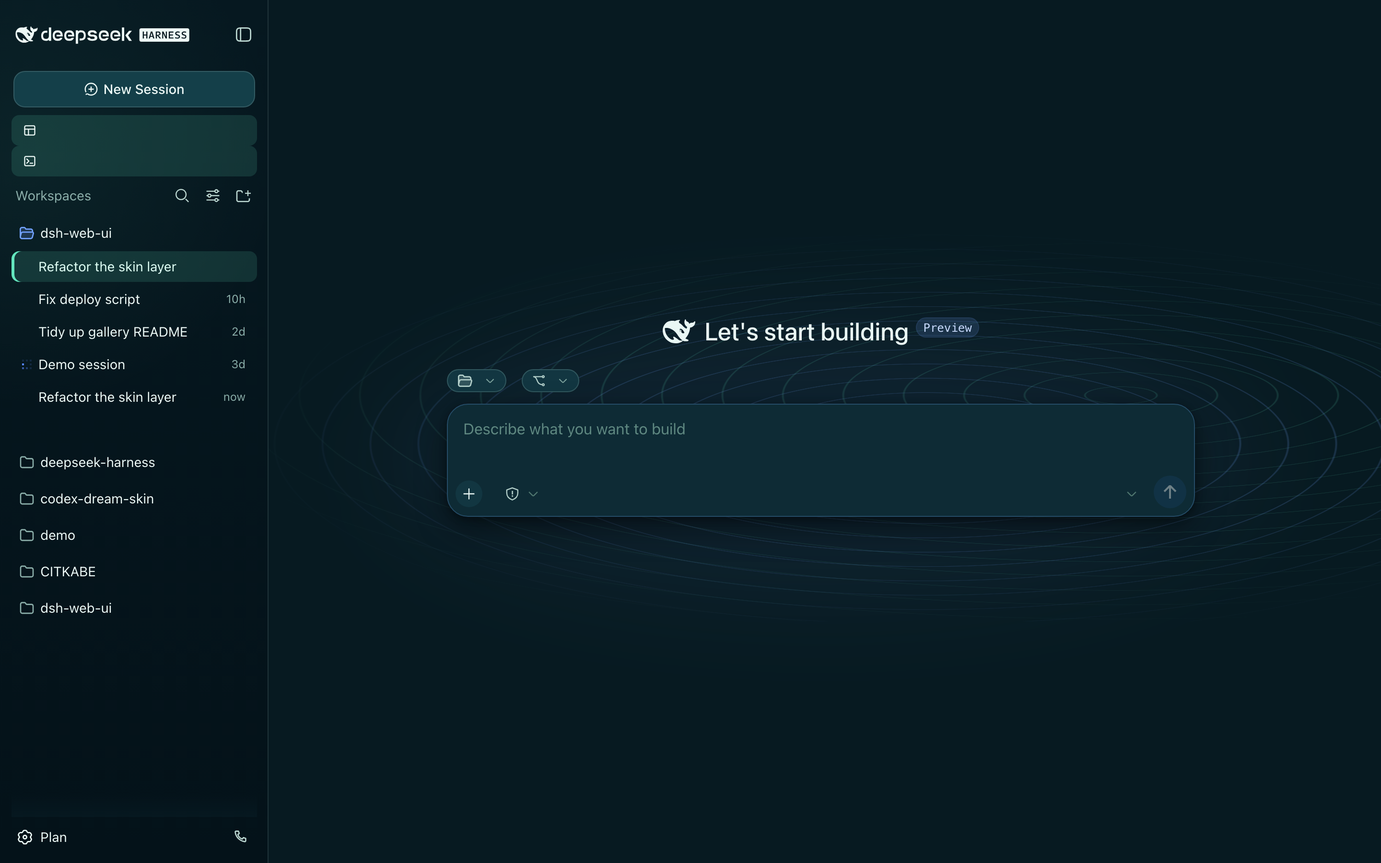
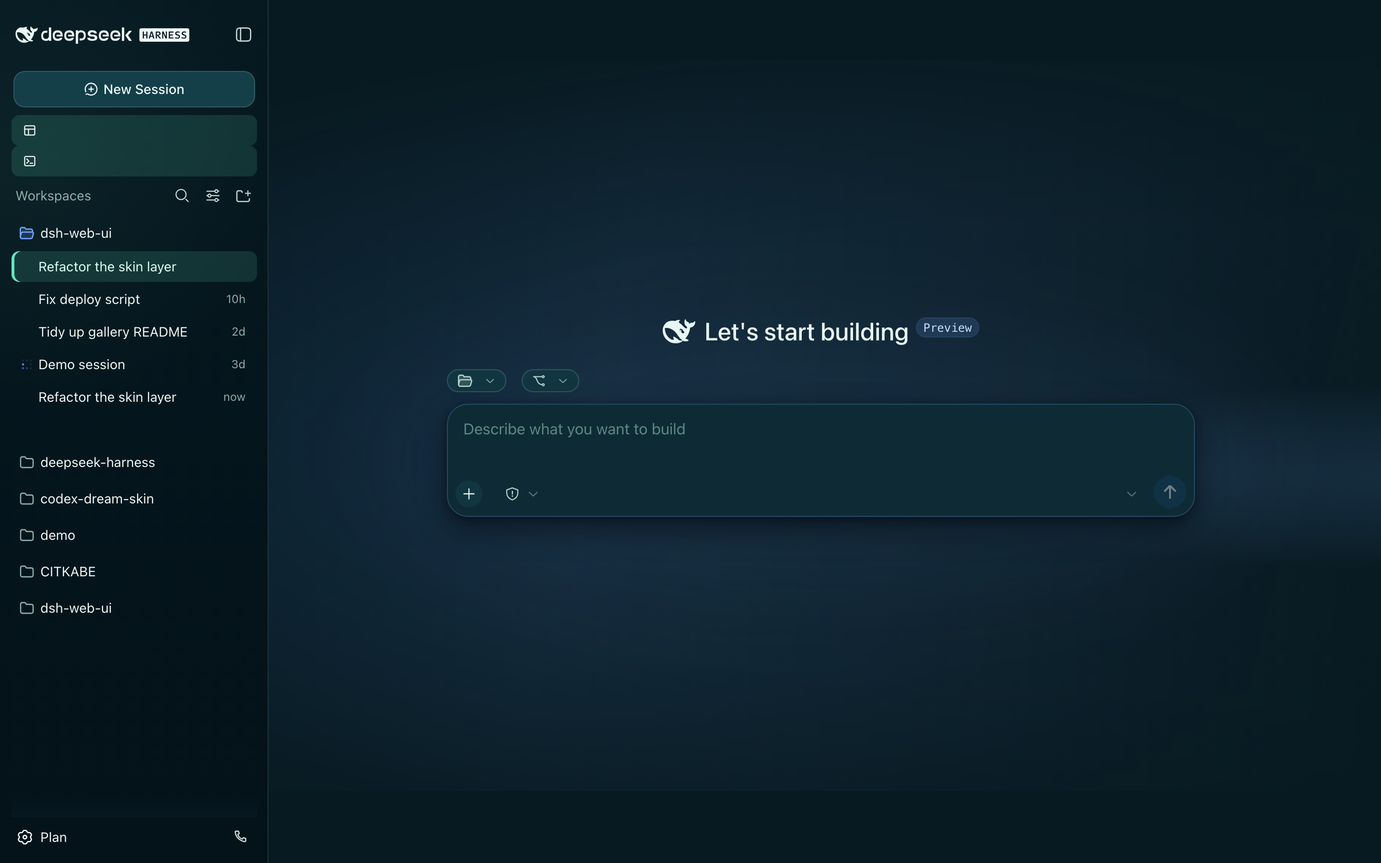
fix(skins): refine Deep Current visuals

Changed region(s): [[0.875, 0.4978, 1.0, 0.5911]]

diff --git a/gallery/styles.js b/gallery/styles.js
@@ -65,6 +65,6 @@ window.SKIN_STYLES = {
 	},
 	"deep-current": {
 		stylesheet: "/**\n * Deep Current — oceanographic observatory palette for dsh web.\n *\n * L1 remaps official semantic tokens. The stylesheet contains no remote\n * resources or executable hooks. Structural presentation lives in the small\n * patches.css companion and uses stable data and ARIA anchors only.\n */\n\n:root {\n  color-scheme: light;\n  color: #123139;\n\n  --deep-current-abyss: #0b2a33;\n  --deep-current-pearl: #f4f8f7;\n  --deep-current-sea-glass: #ddece9;\n  --deep-current-blue: #2d6cdf;\n  --deep-current-mint: #63e6be;\n  --deep-current-coral: #ff6b5e;\n  --deep-current-amber: #c88932;\n  --deep-current-composer: #fff;\n  --deep-current-contour-blue: #2d6cdf24;\n  --deep-current-contour-mint: #2c9f7d1c;\n  --deep-current-current-band: #63e6be14;\n  --deep-current-display-font: \"Avenir Next\", \"DIN Alternate\", \"PingFang SC\", \"Microsoft YaHei\", sans-serif;\n  --dsw-font-family: -apple-system, BlinkMacSystemFont, \"Segoe UI\", \"PingFang SC\", \"Microsoft YaHei\", sans-serif;\n\n  /* surfaces */\n  --dsw-alias-bg-base: #f4f8f7;\n  --dsw-alias-bg-layer-1: #fff;\n  --dsw-alias-bg-layer-2: #eaf2f0;\n  --dsw-alias-bg-layer-3: #ddece9;\n  --dsw-alias-bg-mask-1: #0b2a336b;\n  --dsw-alias-bg-mask-2: #0b2a3338;\n  --dsw-alias-bg-mask-3: #0b2a3385;\n  --dsw-alias-bg-mask-drop: #0b2a334d;\n  --dsw-alias-bg-mask-photo: #061a20db;\n  --dsw-alias-bg-module-platform: #edf5f3;\n  --dsw-alias-bg-multi-select: #dfeeea;\n  --dsw-alias-bg-overlay: #fffffff2;\n  --dsw-alias-bg-skeleton: #2d6cdf12;\n\n  /* borders */\n  --dsw-alias-border-inverted: #ffffff8f;\n  --dsw-alias-border-inverted2: #ffffffbd;\n  --dsw-alias-border-l1: #0b2a3314;\n  --dsw-alias-border-l2-darkmode-thin: #0b2a3321;\n  --dsw-alias-border-l2: #0b2a3329;\n  --dsw-alias-border-l3: #0b2a3340;\n  --dsw-alias-border-l4: #0b2a335c;\n\n  /* labels */\n  --dsw-alias-label-primary: #123139;\n  --dsw-alias-label-primary-bluish: #234f77;\n  --dsw-alias-label-primary-dimmed: #506b70;\n  --dsw-alias-label-primary-foreground: #f5fffc;\n  --dsw-alias-label-primary-inverted: #f5fffc;\n  --dsw-alias-label-secondary: #3e5b61;\n  --dsw-alias-label-tertiary: #6f898a;\n  --dsw-alias-label-dimmed: #91a7a5;\n  --dsw-alias-label-caption: #9eb2af;\n\n  /* brand and interaction */\n  --dsw-alias-brand-primary: #2d6cdf;\n  --dsw-alias-brand-primary-invert: #fff;\n  --dsw-alias-brand-primary-new-colorprimary-new-color: #2d6cdf;\n  --dsw-alias-brand-text: #2058bd;\n  --dsw-alias-interactive-bg-hover: #2d6cdf12;\n  --dsw-alias-interactive-bg-active: #2d6cdf21;\n  --dsw-alias-interactive-bg-hover-accent: #63e6be26;\n  --dsw-alias-interactive-bg-hover-danger: #ff6b5e17;\n  --dsw-alias-interactive-bg-hover-solid: #e1eeeb;\n\n  /* buttons */\n  --dsw-alias-button-contrast-fill: #0b2a33;\n  --dsw-alias-button-elevated-fill: #fff;\n  --dsw-alias-button-floating-fill: #fff;\n  --dsw-alias-button-floating-hover: #edf5f3;\n  --dsw-alias-button-ghost-active-border: #2d6cdf4d;\n  --dsw-alias-button-ghost-active-fill: #2d6cdf14;\n  --dsw-alias-button-ghost-active-hover: #2d6cdf21;\n  --dsw-alias-button-info-fill: #e2ecff;\n  --dsw-alias-button-info-hover: #d5e3ff;\n  --dsw-alias-button-primary-dimmed: #2d6cdf66;\n  --dsw-alias-button-primary-fill: #2d6cdf;\n  --dsw-alias-button-primary-hover: #245cc0;\n  --dsw-alias-button-tool-bar-fill-invisible: #ffffff99;\n  --dsw-alias-button-tool-bar-fill: #edf5f3;\n  --dsw-alias-button-tool-bar-hover: #dfece9;\n\n  /* state colors */\n  --dsw-alias-state-business-primary: #2d6cdf;\n  --dsw-alias-state-business-tertiary: #2d6cdf1f;\n  --dsw-alias-state-error-primary: #d94e45;\n  --dsw-alias-state-error-secondary: #ff6b5e;\n  --dsw-alias-state-success-primary: #218969;\n  --dsw-alias-state-success-secondary: #37a983;\n  --dsw-alias-state-success-tertiary: #63e6be26;\n  --dsw-alias-state-warn-label: #815218;\n  --dsw-alias-state-warn-primary: #b97825;\n  --dsw-alias-state-warn-secondary: #c88932;\n  --dsw-alias-state-warn-tertiary: #c8893226;\n\n  /* markdown */\n  --dsw-alias-markdown-citation: #dce9ff;\n  --dsw-alias-markdown-code-block: #e7efed;\n  --dsw-alias-markdown-code-block-banner: #dce8e5;\n  --dsw-alias-markdown-code-segment-selected: #fff;\n  --dsw-alias-markdown-code-segment-unselected: #e1ebe8;\n  --dsw-alias-markdown-inline-code: #dfe9f8;\n  --dsw-alias-markdown-placeholder: #eaf2f0;\n  --dsw-alias-markdown-tag: #dff5ed;\n\n  /* overlays, shadows, and scrollbars */\n  --dsw-alias-toast-bg: #0b2a33f2;\n  --dsw-alias-tooltip-bg: #0b2a33;\n  --dsw-hovercard-bg: #fffffff5;\n  --dsw-mask-blur: #f4f8f7b8;\n  --dsw-shadow-lv1: 0 1px 2px #0b2a3314;\n  --dsw-shadow-lv1-blur: 0 2px 8px #0b2a3317;\n  --dsw-shadow-lv2: 0 10px 28px #0b2a331c, 0 2px 6px #0b2a3312;\n  --dsw-shadow-lv3: 0 22px 56px #0b2a3326;\n  --dsw-alias-scrollbar-bg-l1: #0b2a331c;\n  --dsw-alias-scrollbar-bg-l2: #0b2a3326;\n  --dsw-alias-scrollbar-hover-l1: #2d6cdf52;\n  --dsw-alias-scrollbar-hover-l2: #2d6cdf66;\n\n  /* shell surfaces */\n  --dsw-specific-bubble: #f7fbfa;\n  --dsw-specific-bubble-highlight: #e6f2ef;\n  --dsw-specific-input-major: #fff;\n  --dsw-specific-login-input: #fff;\n  --dsw-specific-menu: #fffffff5;\n  --dsw-specific-selector: #e8f1ef;\n  --dsw-specific-sidebar-fill: #0b2a33;\n  --dsw-specific-sidebar-nav-item-active: #63e6be24;\n  --dsw-specific-sidebar-nav-item-active-accent: #63e6be;\n  --dsw-specific-sidebar-nav-item-hover: #ffffff0f;\n  --dsw-specific-tip: #fff;\n}\n\nbody[data-ds-dark-theme] {\n  color-scheme: dark;\n  color: #e9f7f4;\n\n  --deep-current-abyss: #061820;\n  --deep-current-pearl: #071a21;\n  --deep-current-sea-glass: #123641;\n  --deep-current-blue: #72a2ff;\n  --deep-current-mint: #63e6be;\n  --deep-current-coral: #ff8278;\n  --deep-current-amber: #e4ad56;\n  --deep-current-composer: #0e2b35;\n  --deep-current-contour-blue: #72a2ff2b;\n  --deep-current-contour-mint: #63e6be20;\n  --deep-current-current-band: #2d6cdf17;\n\n  /* surfaces */\n  --dsw-alias-bg-base: #071a21;\n  --dsw-alias-bg-layer-1: #0c2731;\n  --dsw-alias-bg-layer-2: #123641;\n  --dsw-alias-bg-layer-3: #194650;\n  --dsw-alias-bg-mask-1: #00000094;\n  --dsw-alias-bg-mask-2: #00000052;\n  --dsw-alias-bg-mask-3: #000000ad;\n  --dsw-alias-bg-mask-drop: #00000070;\n  --dsw-alias-bg-mask-photo: #000000e0;\n  --dsw-alias-bg-module-platform: #123641;\n  --dsw-alias-bg-multi-select: #153d48;\n  --dsw-alias-bg-overlay: #0c2731f2;\n  --dsw-alias-bg-skeleton: #72a2ff14;\n\n  /* borders */\n  --dsw-alias-border-inverted: #061820a6;\n  --dsw-alias-border-inverted2: #061820d1;\n  --dsw-alias-border-l1: #bdece31a;\n  --dsw-alias-border-l2-darkmode-thin: #bdece324;\n  --dsw-alias-border-l2: #bdece32e;\n  --dsw-alias-border-l3: #bdece347;\n  --dsw-alias-border-l4: #bdece361;\n\n  /* labels */\n  --dsw-alias-label-primary: #e9f7f4;\n  --dsw-alias-label-primary-bluish: #cadcff;\n  --dsw-alias-label-primary-dimmed: #a0bcb7;\n  --dsw-alias-label-primary-foreground: #061820;\n  --dsw-alias-label-primary-inverted: #061820;\n  --dsw-alias-label-secondary: #b3cfca;\n  --dsw-alias-label-tertiary: #7fa49e;\n  --dsw-alias-label-dimmed: #5f8881;\n  --dsw-alias-label-caption: #4f766f;\n\n  /* brand and interaction */\n  --dsw-alias-brand-primary: #72a2ff;\n  --dsw-alias-brand-primary-invert: #071a21;\n  --dsw-alias-brand-primary-new-colorprimary-new-color: #72a2ff;\n  --dsw-alias-brand-text: #bdd1ff;\n  --dsw-alias-interactive-bg-hover: #72a2ff17;\n  --dsw-alias-interactive-bg-active: #72a2ff2b;\n  --dsw-alias-interactive-bg-hover-accent: #63e6be24;\n  --dsw-alias-interactive-bg-hover-danger: #ff827821;\n  --dsw-alias-interactive-bg-hover-solid: #194650;\n\n  /* buttons */\n  --dsw-alias-button-contrast-fill: #e9f7f4;\n  --dsw-alias-button-elevated-fill: #123641;\n  --dsw-alias-button-floating-fill: #0c2731;\n  --dsw-alias-button-floating-hover: #194650;\n  --dsw-alias-button-ghost-active-border: #72a2ff61;\n  --dsw-alias-button-ghost-active-fill: #72a2ff1f;\n  --dsw-alias-button-ghost-active-hover: #72a2ff30;\n  --dsw-alias-button-info-fill: #173e5e;\n  --dsw-alias-button-info-hover: #1c4b70;\n  --dsw-alias-button-primary-dimmed: #3e65aa;\n  --dsw-alias-button-primary-fill: #4d7fe0;\n  --dsw-alias-button-primary-hover: #6594ed;\n  --dsw-alias-button-tool-bar-fill-invisible: #1236418f;\n  --dsw-alias-button-tool-bar-fill: #123641;\n  --dsw-alias-button-tool-bar-hover: #194650;\n\n  /* state colors */\n  --dsw-alias-state-business-primary: #72a2ff;\n  --dsw-alias-state-business-tertiary: #72a2ff26;\n  --dsw-alias-state-error-primary: #ff8278;\n  --dsw-alias-state-error-secondary: #ff9b93;\n  --dsw-alias-state-success-primary: #63e6be;\n  --dsw-alias-state-success-secondary: #83edcb;\n  --dsw-alias-state-success-tertiary: #63e6be29;\n  --dsw-alias-state-warn-label: #f3ca87;\n  --dsw-alias-state-warn-primary: #e4ad56;\n  --dsw-alias-state-warn-secondary: #edbd73;\n  --dsw-alias-state-warn-tertiary: #e4ad5629;\n\n  /* markdown */\n  --dsw-alias-markdown-citation: #173e5e;\n  --dsw-alias-markdown-code-block: #06151b;\n  --dsw-alias-markdown-code-block-banner: #0e2b35;\n  --dsw-alias-markdown-code-segment-selected: #194650;\n  --dsw-alias-markdown-code-segment-unselected: #0a222b;\n  --dsw-alias-markdown-inline-code: #123850;\n  --dsw-alias-markdown-placeholder: #0c2731;\n  --dsw-alias-markdown-tag: #123d38;\n\n  /* overlays, shadows, and scrollbars */\n  --dsw-alias-toast-bg: #123641f5;\n  --dsw-alias-tooltip-bg: #e9f7f4;\n  --dsw-hovercard-bg: #0c2731f5;\n  --dsw-mask-blur: #071a21c2;\n  --dsw-shadow-lv1: 0 1px 2px #00000061;\n  --dsw-shadow-lv1-blur: 0 3px 10px #00000070;\n  --dsw-shadow-lv2: 0 12px 32px #00000075, 0 2px 8px #00000052;\n  --dsw-shadow-lv3: 0 24px 64px #00000094;\n  --dsw-alias-scrollbar-bg-l1: #bdece326;\n  --dsw-alias-scrollbar-bg-l2: #bdece333;\n  --dsw-alias-scrollbar-hover-l1: #72a2ff61;\n  --dsw-alias-scrollbar-hover-l2: #72a2ff75;\n\n  /* shell surfaces */\n  --dsw-specific-bubble: #0e2b35;\n  --dsw-specific-bubble-highlight: #153d48;\n  --dsw-specific-input-major: #0e2b35;\n  --dsw-specific-login-input: #0e2b35;\n  --dsw-specific-menu: #0c2731f5;\n  --dsw-specific-selector: #123641;\n  --dsw-specific-sidebar-fill: #061820;\n  --dsw-specific-sidebar-nav-item-active: #63e6be24;\n  --dsw-specific-sidebar-nav-item-active-accent: #63e6be;\n  --dsw-specific-sidebar-nav-item-hover: #ffffff0f;\n  --dsw-specific-tip: #0c2731;\n}\n",
-		patches: "/**\n * Deep Current structural presentation.\n *\n * This L3 stylesheet intentionally stays small and uses structural data,\n * semantic data, and ARIA anchors only. It contains no CSS-module hash\n * selectors and no layout-changing rules.\n */\n\n[data-pane=\"conversation\"],\n[data-dsh-surface=\"conversation\"] {\n  background-color: var(--deep-current-pearl);\n  background-image:\n    radial-gradient(ellipse 48% 30% at 58% 57%, var(--deep-current-current-band) 0%, transparent 68%),\n    linear-gradient(118deg, transparent 20%, var(--deep-current-current-band) 47%, transparent 74%);\n  background-attachment: local;\n}\n\n[data-composer-seat] {\n  isolation: isolate;\n  position: relative;\n}\n\n[data-composer-seat]::before {\n  content: \"\";\n  z-index: 0;\n  pointer-events: none;\n  background-image:\n    repeating-radial-gradient(ellipse at 58% 56%, transparent 0 27px, var(--deep-current-contour-blue) 28px 29px, transparent 30px 50px),\n    repeating-radial-gradient(ellipse at 73% 44%, transparent 0 36px, var(--deep-current-contour-mint) 37px 38px, transparent 39px 63px);\n  position: absolute;\n  inset: -42% -9% -32%;\n  -webkit-mask-image: radial-gradient(ellipse 66% 62% at 60% 54%, #000 0 48%, transparent 82%);\n  mask-image: radial-gradient(ellipse 66% 62% at 60% 54%, #000 0 48%, transparent 82%);\n}\n\n[data-composer-seat] > * {\n  z-index: 1;\n  position: relative;\n}\n\n[data-pane=\"sidebar\"],\n[data-dsh-surface=\"sidebar\"] {\n  --dsw-alias-bg-base: #0b2a33;\n  --dsw-alias-bg-layer-1: #103640;\n  --dsw-alias-bg-layer-2: #143f49;\n  --dsw-alias-bg-layer-3: #194a54;\n  --dsw-alias-bg-overlay: #103640f5;\n  --dsw-alias-border-l1: #d8f5ee1a;\n  --dsw-alias-border-l2: #d8f5ee29;\n  --dsw-alias-border-l3: #d8f5ee42;\n  --dsw-alias-label-primary: #edf9f6;\n  --dsw-alias-label-primary-bluish: #d7f8ed;\n  --dsw-alias-label-secondary: #bdd8d2;\n  --dsw-alias-label-tertiary: #8cafaa;\n  --dsw-alias-label-dimmed: #6d938d;\n  --dsw-alias-label-caption: #5d837d;\n  --dsw-alias-brand-primary: #63e6be;\n  --dsw-alias-brand-text: #baf7e3;\n  --dsw-alias-interactive-bg-hover: #ffffff0f;\n  --dsw-alias-interactive-bg-active: #63e6be24;\n  --dsw-alias-interactive-bg-hover-solid: #194a54;\n  --dsw-alias-button-elevated-fill: #143f49;\n  --dsw-alias-button-floating-fill: #103640;\n  --dsw-alias-button-floating-hover: #194a54;\n  --dsw-alias-button-info-fill: #143f49;\n  --dsw-alias-button-info-hover: #194a54;\n  --dsw-specific-sidebar-fill: #0b2a33;\n  --dsw-specific-sidebar-nav-item-active: #63e6be24;\n  --dsw-specific-sidebar-nav-item-active-accent: #63e6be;\n  --dsw-specific-sidebar-nav-item-hover: #ffffff0f;\n  color: #edf9f6;\n  background-color: #0b2a33;\n  border-inline-end: 1px solid #d8f5ee1f;\n}\n\n[data-pane=\"sidebar\"] > div {\n  background:\n    radial-gradient(circle at 28px 18%, #63e6be12, transparent 32%),\n    linear-gradient(180deg, #0b2a33 0%, #08242c 100%);\n}\n\nbody[data-ds-dark-theme] [data-pane=\"sidebar\"],\nbody[data-ds-dark-theme] [data-dsh-surface=\"sidebar\"] {\n  --dsw-alias-bg-base: #061820;\n  --dsw-alias-bg-layer-1: #0a222b;\n  --dsw-alias-bg-layer-2: #0e2b35;\n  --dsw-alias-bg-layer-3: #123641;\n  --dsw-specific-sidebar-fill: #061820;\n  background-color: #061820;\n}\n\nbody[data-ds-dark-theme] [data-pane=\"sidebar\"] > div {\n  background:\n    radial-gradient(circle at 28px 18%, #63e6be0f, transparent 34%),\n    linear-gradient(180deg, #061820 0%, #041219 100%);\n}\n\n[data-pane=\"sidebar\"] :is([aria-selected=\"true\"], [aria-current=\"true\"]) {\n  color: #dffff5;\n  background-color: #63e6be24;\n  box-shadow: inset 3px 0 #63e6be;\n}\n\n[data-pane=\"sidebar\"] :is([role=\"treeitem\"], button, a):focus-visible,\n[data-dsh-part=\"sidebar-entry\"]:focus-visible {\n  outline: 2px solid #63e6be;\n  outline-offset: 2px;\n}\n\n[data-composer-card=\"true\"],\n[data-dsh-surface=\"composer\"] {\n  background: var(--deep-current-composer);\n  border: 1px solid color-mix(in srgb, var(--deep-current-blue) 20%, var(--deep-current-sea-glass));\n  box-shadow: var(--dsw-shadow-lv2);\n  transition: border-color 160ms ease, box-shadow 160ms ease;\n}\n\n[data-composer-card=\"true\"]:focus-within,\n[data-dsh-surface=\"composer\"]:focus-within {\n  border-color: var(--deep-current-blue);\n  box-shadow: 0 0 0 3px color-mix(in srgb, var(--deep-current-blue) 18%, transparent), var(--dsw-shadow-lv2);\n}\n\ntextarea[data-phase],\n[data-dsh-part=\"composer-input\"] {\n  color: var(--dsw-alias-label-primary);\n  caret-color: var(--deep-current-blue);\n}\n\ntextarea[data-phase]::placeholder {\n  color: var(--dsw-alias-label-dimmed);\n}\n\n[data-dsh-surface=\"session-header\"],\n[data-dsh-part=\"header\"] {\n  font-family: var(--deep-current-display-font);\n  letter-spacing: 0.012em;\n}\n\n[data-dsh-part=\"column\"],\n[data-dsh-part=\"detail\"],\n[data-dsh-part=\"host-table\"],\n[data-dsh-part=\"dialog\"],\n[data-dsh-part=\"plugin-item\"],\n[data-dsh-part=\"marketplace-card\"] {\n  border-color: var(--dsw-alias-border-l2);\n  box-shadow: var(--dsw-shadow-lv1);\n}\n\n@media (max-width: 768px) {\n  [data-pane=\"conversation\"],\n  [data-dsh-surface=\"conversation\"] {\n    background-image:\n      radial-gradient(ellipse 70% 28% at 55% 70%, var(--deep-current-current-band) 0%, transparent 72%);\n  }\n\n  [data-composer-seat]::before {\n    background-image:\n      repeating-radial-gradient(ellipse at 55% 68%, transparent 0 31px, var(--deep-current-contour-blue) 32px 33px, transparent 34px 58px);\n    inset: -32% -5% -24%;\n  }\n\n  [data-composer-card=\"true\"],\n  [data-dsh-surface=\"composer\"] {\n    box-shadow: var(--dsw-shadow-lv1-blur);\n  }\n}\n\n@media (prefers-contrast: more) {\n  [data-composer-card=\"true\"],\n  [data-dsh-surface=\"composer\"] {\n    border-color: var(--dsw-alias-label-primary);\n  }\n\n  [data-pane=\"sidebar\"],\n  [data-dsh-surface=\"sidebar\"] {\n    border-inline-end-color: #edf9f66b;\n  }\n}\n\n@media (prefers-reduced-motion: reduce) {\n  [data-composer-card=\"true\"],\n  [data-dsh-surface=\"composer\"] {\n    transition: none;\n  }\n}\n",
+		patches: "/**\n * Deep Current structural presentation.\n *\n * This L3 stylesheet intentionally stays small and uses structural data,\n * semantic data, and ARIA anchors only. It contains no CSS-module hash\n * selectors and no layout-changing rules.\n */\n\n[data-pane=\"conversation\"],\n[data-dsh-surface=\"conversation\"] {\n  background-color: var(--deep-current-pearl);\n  background-image:\n    radial-gradient(ellipse 48% 30% at 58% 57%, var(--deep-current-current-band) 0%, transparent 68%),\n    linear-gradient(118deg, transparent 20%, var(--deep-current-current-band) 47%, transparent 74%);\n  background-attachment: local;\n}\n\n[data-composer-seat] {\n  isolation: isolate;\n  position: relative;\n}\n\n[data-composer-seat]::before {\n  content: \"\";\n  z-index: 0;\n  pointer-events: none;\n  background-image: url(\"assets/contour-field.svg\");\n  background-repeat: repeat-x;\n  background-size: 1440px 810px;\n  background-position: 0 50%;\n  position: absolute;\n  inset: -145% -62% -135%;\n  -webkit-mask-image: radial-gradient(ellipse 78% 76% at 58% 53%, #000 0 58%, transparent 93%);\n  mask-image: radial-gradient(ellipse 78% 76% at 58% 53%, #000 0 58%, transparent 93%);\n}\n\n[data-composer-seat]::after {\n  content: \"\";\n  z-index: 0;\n  pointer-events: none;\n  background-image:\n    radial-gradient(ellipse 44% 19% at 66% 57%, color-mix(in srgb, var(--deep-current-blue) 18%, transparent), transparent 72%),\n    linear-gradient(104deg, transparent 18%, var(--deep-current-current-band) 42%, color-mix(in srgb, var(--deep-current-blue) 11%, transparent) 56%, transparent 78%);\n  background-repeat: no-repeat;\n  background-size: 140% 100%, 180% 100%;\n  background-position: -25% 50%, 115% 50%;\n  position: absolute;\n  inset: -110% -44% -105%;\n  -webkit-mask-image: radial-gradient(ellipse 72% 68% at 60% 54%, #000 0 46%, transparent 88%);\n  mask-image: radial-gradient(ellipse 72% 68% at 60% 54%, #000 0 46%, transparent 88%);\n}\n\n@keyframes deep-current-contour-flow {\n  to {\n    background-position: 1440px 50%;\n  }\n}\n\n@keyframes deep-current-glow-flow {\n  to {\n    background-position: 125% 50%, -85% 50%;\n  }\n}\n\n[data-phase=\"hero\"] [data-composer-seat]::before {\n  animation: deep-current-contour-flow 18s linear infinite;\n  will-change: background-position;\n}\n\n[data-phase=\"hero\"] [data-composer-seat]::after {\n  animation: deep-current-glow-flow 11s linear infinite;\n  will-change: background-position;\n}\n\n[data-composer-seat] > * {\n  z-index: 1;\n  position: relative;\n}\n\n[data-pane=\"sidebar\"],\n[data-dsh-surface=\"sidebar\"] {\n  --dsw-alias-bg-base: #0b2a33;\n  --dsw-alias-bg-layer-1: #103640;\n  --dsw-alias-bg-layer-2: #143f49;\n  --dsw-alias-bg-layer-3: #194a54;\n  --dsw-alias-bg-overlay: #103640f5;\n  --dsw-alias-border-l1: #d8f5ee1a;\n  --dsw-alias-border-l2: #d8f5ee29;\n  --dsw-alias-border-l3: #d8f5ee42;\n  --dsw-alias-label-primary: #edf9f6;\n  --dsw-alias-label-primary-bluish: #d7f8ed;\n  --dsw-alias-label-secondary: #bdd8d2;\n  --dsw-alias-label-tertiary: #8cafaa;\n  --dsw-alias-label-dimmed: #6d938d;\n  --dsw-alias-label-caption: #5d837d;\n  --dsw-alias-label-primary-inverted: #0b2a33;\n  --dsw-alias-brand-primary: #63e6be;\n  --dsw-alias-brand-text: #baf7e3;\n  --dsw-alias-interactive-bg-hover: #ffffff0f;\n  --dsw-alias-interactive-bg-active: #63e6be24;\n  --dsw-alias-interactive-bg-hover-solid: #194a54;\n  --dsw-alias-button-elevated-fill: #143f49;\n  --dsw-alias-button-floating-fill: #103640;\n  --dsw-alias-button-floating-hover: #194a54;\n  --dsw-alias-button-info-fill: #143f49;\n  --dsw-alias-button-info-hover: #194a54;\n  --dsw-specific-sidebar-fill: #0b2a33;\n  --dsw-specific-sidebar-nav-item-active: #63e6be24;\n  --dsw-specific-sidebar-nav-item-active-accent: #63e6be;\n  --dsw-specific-sidebar-nav-item-hover: #ffffff0f;\n  color: #edf9f6;\n  background-color: #0b2a33;\n  border-inline-end: 1px solid #d8f5ee1f;\n}\n\n[data-pane=\"sidebar\"] > div {\n  background:\n    radial-gradient(circle at 28px 18%, #63e6be12, transparent 32%),\n    linear-gradient(180deg, #0b2a33 0%, #08242c 100%);\n}\n\nbody[data-ds-dark-theme] [data-pane=\"sidebar\"],\nbody[data-ds-dark-theme] [data-dsh-surface=\"sidebar\"] {\n  --dsw-alias-bg-base: #061820;\n  --dsw-alias-bg-layer-1: #0a222b;\n  --dsw-alias-bg-layer-2: #0e2b35;\n  --dsw-alias-bg-layer-3: #123641;\n  --dsw-alias-label-primary-inverted: #061820;\n  --dsw-specific-sidebar-fill: #061820;\n  background-color: #061820;\n}\n\nbody[data-ds-dark-theme] [data-pane=\"sidebar\"] > div {\n  background:\n    radial-gradient(circle at 28px 18%, #63e6be0f, transparent 34%),\n    linear-gradient(180deg, #061820 0%, #041219 100%);\n}\n\nbody[data-ds-dark-theme] [data-composer-seat]::before {\n  opacity: 0.9;\n  filter: brightness(1.3) saturate(1.12);\n}\n\n/*\n * The official settings dialog portals through the sidebar subtree. Restore\n * the main surface tokens at its semantic boundary so the dark sidebar's\n * light labels never leak onto pearl controls.\n */\n[data-dsh-surface=\"settings\"] {\n  --dsw-alias-bg-base: #f4f8f7;\n  --dsw-alias-bg-layer-1: #fff;\n  --dsw-alias-bg-layer-2: #eaf2f0;\n  --dsw-alias-bg-layer-3: #ddece9;\n  --dsw-alias-bg-overlay: #fffffff2;\n  --dsw-alias-border-l1: #0b2a3314;\n  --dsw-alias-border-l2: #0b2a3329;\n  --dsw-alias-border-l3: #0b2a3340;\n  --dsw-alias-label-primary: #123139;\n  --dsw-alias-label-primary-bluish: #234f77;\n  --dsw-alias-label-secondary: #3e5b61;\n  --dsw-alias-label-tertiary: #6f898a;\n  --dsw-alias-label-dimmed: #91a7a5;\n  --dsw-alias-label-caption: #9eb2af;\n  --dsw-alias-brand-primary: #2d6cdf;\n  --dsw-alias-brand-text: #2058bd;\n  --dsw-alias-interactive-bg-hover: #2d6cdf12;\n  --dsw-alias-interactive-bg-active: #2d6cdf21;\n  --dsw-alias-interactive-bg-hover-solid: #e1eeeb;\n  --dsw-alias-button-elevated-fill: #fff;\n  --dsw-alias-button-floating-fill: #fff;\n  --dsw-alias-button-floating-hover: #edf5f3;\n  --dsw-alias-button-info-fill: #e2ecff;\n  --dsw-alias-button-info-hover: #d5e3ff;\n  color: #123139;\n}\n\nbody[data-ds-dark-theme] [data-dsh-surface=\"settings\"] {\n  --dsw-alias-bg-base: #071a21;\n  --dsw-alias-bg-layer-1: #0c2731;\n  --dsw-alias-bg-layer-2: #123641;\n  --dsw-alias-bg-layer-3: #194650;\n  --dsw-alias-bg-overlay: #0c2731f2;\n  --dsw-alias-border-l1: #bdece31a;\n  --dsw-alias-border-l2: #bdece32e;\n  --dsw-alias-border-l3: #bdece347;\n  --dsw-alias-label-primary: #e9f7f4;\n  --dsw-alias-label-primary-bluish: #cadcff;\n  --dsw-alias-label-secondary: #b3cfca;\n  --dsw-alias-label-tertiary: #7fa49e;\n  --dsw-alias-label-dimmed: #5f8881;\n  --dsw-alias-label-caption: #4f766f;\n  --dsw-alias-brand-primary: #72a2ff;\n  --dsw-alias-brand-text: #bdd1ff;\n  --dsw-alias-interactive-bg-hover: #72a2ff17;\n  --dsw-alias-interactive-bg-active: #72a2ff2b;\n  --dsw-alias-interactive-bg-hover-solid: #194650;\n  --dsw-alias-button-elevated-fill: #123641;\n  --dsw-alias-button-floating-fill: #0c2731;\n  --dsw-alias-button-floating-hover: #194650;\n  --dsw-alias-button-info-fill: #173e5e;\n  --dsw-alias-button-info-hover: #1c4b70;\n  color: #e9f7f4;\n}\n\n[data-pane=\"sidebar\"] :is([aria-selected=\"true\"], [aria-current=\"true\"]):not([data-dsh-surface=\"settings\"] *) {\n  color: #dffff5;\n  background-color: #63e6be24;\n  box-shadow: inset 3px 0 #63e6be;\n}\n\n[data-pane=\"sidebar\"] :is([role=\"treeitem\"], button, a):not([data-dsh-surface=\"settings\"] *):focus-visible,\n[data-dsh-part=\"sidebar-entry\"]:focus-visible {\n  outline: 2px solid #63e6be;\n  outline-offset: 2px;\n}\n\n[data-composer-card=\"true\"],\n[data-dsh-surface=\"composer\"] {\n  background: var(--deep-current-composer);\n  border: 1px solid color-mix(in srgb, var(--deep-current-blue) 20%, var(--deep-current-sea-glass));\n  box-shadow: var(--dsw-shadow-lv2);\n  transition: border-color 160ms ease, box-shadow 160ms ease;\n}\n\n[data-composer-card=\"true\"]:focus-within,\n[data-dsh-surface=\"composer\"]:focus-within {\n  border-color: var(--deep-current-blue);\n  box-shadow: 0 0 0 3px color-mix(in srgb, var(--deep-current-blue) 18%, transparent), var(--dsw-shadow-lv2);\n}\n\ntextarea[data-phase],\n[data-dsh-part=\"composer-input\"] {\n  color: var(--dsw-alias-label-primary);\n  caret-color: var(--deep-current-blue);\n}\n\ntextarea[data-phase]::placeholder {\n  color: var(--dsw-alias-label-dimmed);\n}\n\n[data-dsh-surface=\"session-header\"],\n[data-dsh-part=\"header\"] {\n  font-family: var(--deep-current-display-font);\n  letter-spacing: 0.012em;\n}\n\n[data-dsh-part=\"column\"],\n[data-dsh-part=\"detail\"],\n[data-dsh-part=\"host-table\"],\n[data-dsh-part=\"dialog\"],\n[data-dsh-part=\"plugin-item\"],\n[data-dsh-part=\"marketplace-card\"] {\n  border-color: var(--dsw-alias-border-l2);\n  box-shadow: var(--dsw-shadow-lv1);\n}\n\n@media (max-width: 768px) {\n  [data-pane=\"conversation\"],\n  [data-dsh-surface=\"conversation\"] {\n    background-image:\n      radial-gradient(ellipse 70% 28% at 55% 70%, var(--deep-current-current-band) 0%, transparent 72%);\n  }\n\n  [data-composer-seat]::before {\n    opacity: 0.58;\n    background-size: 1080px 608px;\n    inset: -92% -52% -82%;\n  }\n\n  [data-composer-seat]::after {\n    display: none;\n  }\n\n  [data-phase=\"hero\"] [data-composer-seat]::before {\n    animation-duration: 14s;\n  }\n\n  [data-composer-card=\"true\"],\n  [data-dsh-surface=\"composer\"] {\n    box-shadow: var(--dsw-shadow-lv1-blur);\n  }\n}\n\n@media (prefers-contrast: more) {\n  [data-composer-card=\"true\"],\n  [data-dsh-surface=\"composer\"] {\n    border-color: var(--dsw-alias-label-primary);\n  }\n\n  [data-pane=\"sidebar\"],\n  [data-dsh-surface=\"sidebar\"] {\n    border-inline-end-color: #edf9f66b;\n  }\n}\n\n@media (prefers-reduced-motion: reduce) {\n  [data-phase=\"hero\"] [data-composer-seat]::before,\n  [data-phase=\"hero\"] [data-composer-seat]::after {\n    animation: none;\n    will-change: auto;\n  }\n\n  [data-composer-card=\"true\"],\n  [data-dsh-surface=\"composer\"] {\n    transition: none;\n  }\n}\n",
 	},
 };

diff --git a/packages/skins/skin-center/skins/deep-current/patches.css b/packages/skins/skin-center/skins/deep-current/patches.css
@@ -24,13 +24,52 @@
   content: "";
   z-index: 0;
   pointer-events: none;
-  background-image:
-    repeating-radial-gradient(ellipse at 58% 56%, transparent 0 27px, var(--deep-current-contour-blue) 28px 29px, transparent 30px 50px),
-    repeating-radial-gradient(ellipse at 73% 44%, transparent 0 36px, var(--deep-current-contour-mint) 37px 38px, transparent 39px 63px);
+  background-image: url("assets/contour-field.svg");
+  background-repeat: repeat-x;
+  background-size: 1440px 810px;
+  background-position: 0 50%;
   position: absolute;
-  inset: -42% -9% -32%;
-  -webkit-mask-image: radial-gradient(ellipse 66% 62% at 60% 54%, #000 0 48%, transparent 82%);
-  mask-image: radial-gradient(ellipse 66% 62% at 60% 54%, #000 0 48%, transparent 82%);
+  inset: -145% -62% -135%;
+  -webkit-mask-image: radial-gradient(ellipse 78% 76% at 58% 53%, #000 0 58%, transparent 93%);
+  mask-image: radial-gradient(ellipse 78% 76% at 58% 53%, #000 0 58%, transparent 93%);
+}
+
+[data-composer-seat]::after {
+  content: "";
+  z-index: 0;
+  pointer-events: none;
+  background-image:
+    radial-gradient(ellipse 44% 19% at 66% 57%, color-mix(in srgb, var(--deep-current-blue) 18%, transparent), transparent 72%),
+    linear-gradient(104deg, transparent 18%, var(--deep-current-current-band) 42%, color-mix(in srgb, var(--deep-current-blue) 11%, transparent) 56%, transparent 78%);
+  background-repeat: no-repeat;
+  background-size: 140% 100%, 180% 100%;
+  background-position: -25% 50%, 115% 50%;
+  position: absolute;
+  inset: -110% -44% -105%;
+  -webkit-mask-image: radial-gradient(ellipse 72% 68% at 60% 54%, #000 0 46%, transparent 88%);
+  mask-image: radial-gradient(ellipse 72% 68% at 60% 54%, #000 0 46%, transparent 88%);
+}
+
+@keyframes deep-current-contour-flow {
+  to {
+    background-position: 1440px 50%;
+  }
+}
+
+@keyframes deep-current-glow-flow {
+  to {
+    background-position: 125% 50%, -85% 50%;
+  }
+}
+
+[data-phase="hero"] [data-composer-seat]::before {
+  animation: deep-current-contour-flow 18s linear infinite;
+  will-change: background-position;
+}
+
+[data-phase="hero"] [data-composer-seat]::after {
+  animation: deep-current-glow-flow 11s linear infinite;
+  will-change: background-position;
 }
 
 [data-composer-seat] > * {
@@ -54,6 +93,7 @@
   --dsw-alias-label-tertiary: #8cafaa;
   --dsw-alias-label-dimmed: #6d938d;
   --dsw-alias-label-caption: #5d837d;
+  --dsw-alias-label-primary-inverted: #0b2a33;
   --dsw-alias-brand-primary: #63e6be;
   --dsw-alias-brand-text: #baf7e3;
   --dsw-alias-interactive-bg-hover: #ffffff0f;
@@ -85,6 +125,7 @@ body[data-ds-dark-theme] [data-dsh-surface="sidebar"] {
   --dsw-alias-bg-layer-1: #0a222b;
   --dsw-alias-bg-layer-2: #0e2b35;
   --dsw-alias-bg-layer-3: #123641;
+  --dsw-alias-label-primary-inverted: #061820;
   --dsw-specific-sidebar-fill: #061820;
   background-color: #061820;
 }
@@ -95,13 +136,79 @@ body[data-ds-dark-theme] [data-pane="sidebar"] > div {
     linear-gradient(180deg, #061820 0%, #041219 100%);
 }
 
-[data-pane="sidebar"] :is([aria-selected="true"], [aria-current="true"]) {
+body[data-ds-dark-theme] [data-composer-seat]::before {
+  opacity: 0.9;
+  filter: brightness(1.3) saturate(1.12);
+}
+
+/*
+ * The official settings dialog portals through the sidebar subtree. Restore
+ * the main surface tokens at its semantic boundary so the dark sidebar's
+ * light labels never leak onto pearl controls.
+ */
+[data-dsh-surface="settings"] {
+  --dsw-alias-bg-base: #f4f8f7;
+  --dsw-alias-bg-layer-1: #fff;
+  --dsw-alias-bg-layer-2: #eaf2f0;
+  --dsw-alias-bg-layer-3: #ddece9;
+  --dsw-alias-bg-overlay: #fffffff2;
+  --dsw-alias-border-l1: #0b2a3314;
+  --dsw-alias-border-l2: #0b2a3329;
+  --dsw-alias-border-l3: #0b2a3340;
+  --dsw-alias-label-primary: #123139;
+  --dsw-alias-label-primary-bluish: #234f77;
+  --dsw-alias-label-secondary: #3e5b61;
+  --dsw-alias-label-tertiary: #6f898a;
+  --dsw-alias-label-dimmed: #91a7a5;
+  --dsw-alias-label-caption: #9eb2af;
+  --dsw-alias-brand-primary: #2d6cdf;
+  --dsw-alias-brand-text: #2058bd;
+  --dsw-alias-interactive-bg-hover: #2d6cdf12;
+  --dsw-alias-interactive-bg-active: #2d6cdf21;
+  --dsw-alias-interactive-bg-hover-solid: #e1eeeb;
+  --dsw-alias-button-elevated-fill: #fff;
+  --dsw-alias-button-floating-fill: #fff;
+  --dsw-alias-button-floating-hover: #edf5f3;
+  --dsw-alias-button-info-fill: #e2ecff;
+  --dsw-alias-button-info-hover: #d5e3ff;
+  color: #123139;
+}
+
+body[data-ds-dark-theme] [data-dsh-surface="settings"] {
+  --dsw-alias-bg-base: #071a21;
+  --dsw-alias-bg-layer-1: #0c2731;
+  --dsw-alias-bg-layer-2: #123641;
+  --dsw-alias-bg-layer-3: #194650;
+  --dsw-alias-bg-overlay: #0c2731f2;
+  --dsw-alias-border-l1: #bdece31a;
+  --dsw-alias-border-l2: #bdece32e;
+  --dsw-alias-border-l3: #bdece347;
+  --dsw-alias-label-primary: #e9f7f4;
+  --dsw-alias-label-primary-bluish: #cadcff;
+  --dsw-alias-label-secondary: #b3cfca;
+  --dsw-alias-label-tertiary: #7fa49e;
+  --dsw-alias-label-dimmed: #5f8881;
+  --dsw-alias-label-caption: #4f766f;
+  --dsw-alias-brand-primary: #72a2ff;
+  --dsw-alias-brand-text: #bdd1ff;
+  --dsw-alias-interactive-bg-hover: #72a2ff17;
+  --dsw-alias-interactive-bg-active: #72a2ff2b;
+  --dsw-alias-interactive-bg-hover-solid: #194650;
+  --dsw-alias-button-elevated-fill: #123641;
+  --dsw-alias-button-floating-fill: #0c2731;
+  --dsw-alias-button-floating-hover: #194650;
+  --dsw-alias-button-info-fill: #173e5e;
+  --dsw-alias-button-info-hover: #1c4b70;
+  color: #e9f7f4;
+}
+
+[data-pane="sidebar"] :is([aria-selected="true"], [aria-current="true"]):not([data-dsh-surface="settings"] *) {
   color: #dffff5;
   background-color: #63e6be24;
   box-shadow: inset 3px 0 #63e6be;
 }
 
-[data-pane="sidebar"] :is([role="treeitem"], button, a):focus-visible,
+[data-pane="sidebar"] :is([role="treeitem"], button, a):not([data-dsh-surface="settings"] *):focus-visible,
 [data-dsh-part="sidebar-entry"]:focus-visible {
   outline: 2px solid #63e6be;
   outline-offset: 2px;
@@ -155,9 +262,17 @@ textarea[data-phase]::placeholder {
   }
 
   [data-composer-seat]::before {
-    background-image:
-      repeating-radial-gradient(ellipse at 55% 68%, transparent 0 31px, var(--deep-current-contour-blue) 32px 33px, transparent 34px 58px);
-    inset: -32% -5% -24%;
+    opacity: 0.58;
+    background-size: 1080px 608px;
+    inset: -92% -52% -82%;
+  }
+
+  [data-composer-seat]::after {
+    display: none;
+  }
+
+  [data-phase="hero"] [data-composer-seat]::before {
+    animation-duration: 14s;
   }
 
   [data-composer-card="true"],
@@ -179,6 +294,12 @@ textarea[data-phase]::placeholder {
 }
 
 @media (prefers-reduced-motion: reduce) {
+  [data-phase="hero"] [data-composer-seat]::before,
+  [data-phase="hero"] [data-composer-seat]::after {
+    animation: none;
+    will-change: auto;
+  }
+
   [data-composer-card="true"],
   [data-dsh-surface="composer"] {
     transition: none;

diff --git a/gallery/manifest.js b/gallery/manifest.js
@@ -753,7 +753,7 @@ window.SKIN_MANIFEST = {
       "version": "0.1.0",
       "author": "Twelveeee",
       "tagline": "深海墨绿 · 珍珠画布 · 等深线洋流",
-      "description": "《深流》为长时间使用 dsh web 的工作界面引入海洋测绘语言：亮色模式以深海墨绿侧栏衬托珍珠主画布，暗色模式整体下潜为低亮度深海层级；静态等深线与柔和洋流带聚拢在输入区周围，蓝色负责主要操作，薄荷绿标记选中与成功状态，珊瑚色只用于错误提示。",
+      "description": "《深流》为长时间使用 dsh web 的工作界面引入海洋测绘语言：亮色模式以深海墨绿侧栏衬托珍珠主画布，暗色模式整体下潜为低亮度深海层级；空会话首页的有机等深线场与柔和洋流带以分层速度横向流过输入区，进入对话后恢复静止，蓝色负责主要操作，薄荷绿标记选中与成功状态，珊瑚色只用于错误提示。",
       "tags": [
         "ocean",
         "bathymetry",

diff --git a/packages/skins/skin-center/skins/deep-current/README.md b/packages/skins/skin-center/skins/deep-current/README.md
@@ -2,12 +2,12 @@
 
 English | [中文](README.zh.md)
 
-Deep Current gives the dsh web GUI an oceanographic observatory character: an abyss-green sidebar frames a pearl workspace while quiet bathymetric contours gather around the composer.
+Deep Current gives the dsh web GUI an oceanographic observatory character: an abyss-green sidebar frames a pearl workspace while an organic bathymetric contour field gathers around the composer.
 
 ## What it does
 
 - **Split-depth palette**: the light theme pairs a dark sidebar with a pearl canvas; the dark theme descends into a complete low-luminance abyss palette.
-- **Bathymetric signature**: static contour lines and a soft current band concentrate around the composer without moving beneath message text.
+- **Horizontal-current signature**: a locally authored SVG bathymetric field and a soft current band flow horizontally at layered speeds on the empty-session home, then settle as soon as the conversation has content; they never move beneath message text.
 - **Small structural patch**: token remapping carries the full interface while a narrow CSS patch uses structural data, semantic data, and ARIA attributes only; it contains no hashed class selectors or script.
 
 ## Install
@@ -20,7 +20,7 @@ dsh plugin --profile web add @linxin666/dsh-client-ui-skin-center
 
 ## Configuration
 
-The skin follows the GUI light/dark setting automatically and has no skin-specific controls. The Skin Center enable switch and global background controls remain available.
+The skin follows the GUI light/dark setting automatically and has no skin-specific controls. The Skin Center enable switch and global background controls remain available. The home current motion is disabled when the operating system requests reduced motion.
 
 ## Preview
 
@@ -35,3 +35,4 @@ node scripts/capture-previews deep-current
 
 - Presentation-only: the skin changes browser styles and never touches model requests or stored data.
 - The split sidebar and composer treatment use the high-sensitivity CSS patch surface, limited to stable structural and semantic attributes and disclosed by the Skin Center.
+- The contour field is bundled locally with the skin; it makes no network request and uses no third-party artwork.

diff --git a/packages/skins/skin-center/skins/deep-current/README.zh.md b/packages/skins/skin-center/skins/deep-current/README.zh.md
@@ -2,12 +2,12 @@
 
 [English](README.md) | 中文
 
-深流为 dsh web GUI 注入海洋观测站气质：深海墨绿侧栏围住珍珠色工作区，安静的等深线聚拢在输入区周围。
+深流为 dsh web GUI 注入海洋观测站气质：深海墨绿侧栏围住珍珠色工作区，有机的海底测绘等深线场聚拢在输入区周围。
 
 ## 能力
 
 - **分层深度配色**：亮色主题以深色侧栏搭配珍珠画布；暗色主题整体下潜为低亮度深海配色。
-- **等深线标志**：静态等深线与柔和洋流带集中在输入区周围，不会在消息正文下方持续运动。
+- **横向海流标志**：本地创作的 SVG 海底测绘等深线场与柔和洋流带会在空会话首页以分层速度横向流过输入区；会话出现内容后即恢复静止，不会在消息正文下方持续运动。
 - **最小结构补丁**：完整界面主要由 token 重映射承载，少量 CSS 补丁只使用结构数据、语义数据和 ARIA 属性；不含哈希类选择器或脚本。
 
 ## 安装
@@ -20,7 +20,7 @@ dsh plugin --profile web add @linxin666/dsh-client-ui-skin-center
 
 ## 配置
 
-皮肤自动跟随 GUI 的亮暗主题，没有自己的配置项。皮肤中心总开关与全局背景控制仍然可用。
+皮肤自动跟随 GUI 的亮暗主题，没有自己的配置项。皮肤中心总开关与全局背景控制仍然可用；操作系统要求减少动态效果时，首页海流动效会自动关闭。
 
 ## 预览
 
@@ -35,3 +35,4 @@ node scripts/capture-previews deep-current
 
 - 纯呈现层：只改变浏览器样式，不触及模型请求或已存数据。
 - 分色侧栏与输入区处理使用皮肤中心披露的高敏感 CSS 补丁入口，但范围仅限稳定的结构与语义属性。
+- 等深线场随皮肤本地内置，不发起网络请求，也不使用第三方美术素材。
